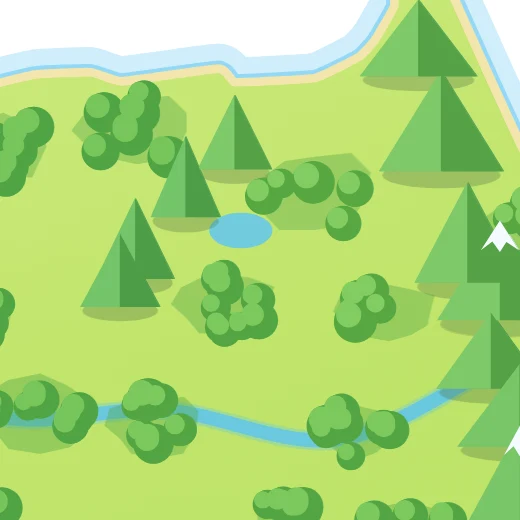
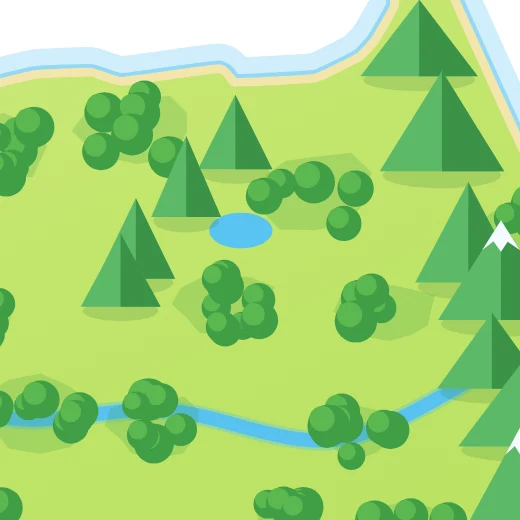
fix: 바다·철새에서는 지도 바탕을 고정한다
한때는 어느 카테고리를 보고 있든 눈과 단풍을 덧그렸다 — "1월의 바다
화면도 눈이어야 한다" 는 이유였다.

바다와 철새에서 지도는 배경이다. 그 배경이 날짜마다 초록에서 주황으로,
다시 흰색으로 넘어가면 정작 읽어야 할 것 — 어느 바다에 무엇이 있는가,
어느 지역에 새가 머무는가 — 이 계속 다른 바탕 위에 놓인다. 배경이 함께
움직이면 그 위의 변화가 안 읽힌다.

그래서 TerrainOverlay 와 FlowerOverlay 는 산에서만 얹는다. 산이 아닐 때는
buildTerrainNow · buildMountainNow 를 아예 부르지 않는다 — 이 값들은 오직
칠하기 위한 것이었고, 날짜를 끄는 동안 매 프레임 도는 계산이다.

같은 이유로 buildMountainNow 의 withFlowers 스위치를 걷었다. 바다에서도
지형색이 필요하던 시절에 꽃만 끄려고 둔 것이라 이제 켤 일이 없다.

측정 (1월 15일 ↔ 7월 20일, 지도 영역에서 sprite 자리를 뺀 배경):

  바다    비교 178,016px   차이 0
  철새    비교 192,303px   차이 0
  산      비교 271,124px   차이 91,602

지도 위치와 크기는 네 날짜 모두 563.375, 69, 421.234 × 644.25 로 같다.
산의 단풍 전선과 꽃은 그대로 동작한다.

증거 화면을 다시 찍었다 — 이전 것들은 바다·철새 화면에 눈이 덮여 있어
지금 동작과 어긋난다.

Claude-Session: https://claude.ai/code/session_01S9jiMgwHLqBXewgscJFXRX

diff --git a/src/components/map/MapScreen.tsx b/src/components/map/MapScreen.tsx
@@ -169,21 +169,31 @@ export function MapScreen() {
   /* ── 파생 데이터 ────────────────────────────────────────── */
 
   /*
-   * 지금 산이 무슨 계절인지는 날짜가 정한다.
+   * 지형의 계절색은 산에서만 칠한다.
    *
-   * 겨울에는 어느 카테고리를 보고 있든 산과 땅이 눈으로 덮이므로,
-   * 바다를 보는 중에도 지형은 계산한다 — 1월의 지도가 초여름처럼 초록이면
-   * 시간을 움직이는 지도가 아니다.
+   * 예전에는 어느 카테고리를 보고 있든 눈과 단풍을 덧그렸다. 그런데
+   * 바다와 철새에서 지도는 배경이다. 그 배경이 날짜마다 초록에서 주황으로,
+   * 다시 흰색으로 넘어가면 정작 읽어야 할 것 — 어느 바다에 무엇이 있는가,
+   * 어느 지역에 새가 머무는가 — 이 계속 다른 바탕 위에 놓인다.
+   * 배경이 움직이면 그 위의 변화가 안 읽힌다.
+   *
+   * 그래서 바다·철새에서는 base map 이 그린 색 그대로 고정한다.
+   * 계절이 지도를 칠하는 것은 산의 일이다 — 거기서는 그것이 주인공이다.
+   *
+   * 산이 아닐 때는 계산 자체를 돌리지 않는다. 이 값들은 오직 칠하기 위한
+   * 것이었고, 날짜를 끄는 동안 매 프레임 도는 계산이다.
    */
-  const terrain = useMemo(() => buildTerrainNow(date), [date]);
+  const isMountain = layer === 'mountain';
+  const terrain = useMemo(() => (isMountain ? buildTerrainNow(date) : null), [isMountain, date]);
   const mountain = useMemo(
-    () => buildMountainNow(date, terrain, layer === 'mountain'),
-    [date, terrain, layer],
+    () => (terrain ? buildMountainNow(date, terrain) : null),
+    [date, terrain],
   );
-  const phase = mountain.phase;
+  /* 산이 아니면 계절 국면은 쓰이지 않는다. 자리를 채우는 값일 뿐이다. */
+  const phase: MountainPhase = mountain?.phase ?? 'green';
   const mountainPhase = phase;
-  const isFlower = layer === 'mountain' && phase === 'flower';
-  const isFoliage = layer === 'mountain' && phase === 'foliage';
+  const isFlower = isMountain && phase === 'flower';
+  const isFoliage = isMountain && phase === 'foliage';
 
   /*
    * 철새는 지도 조립을 따로 돈다.
@@ -395,7 +405,7 @@ export function MapScreen() {
 
   /* ── 지역별 목록 · 추천 — 계절이 무엇을 보여줄지 정한다 ── */
   const regionRows: RegionRow[] = useMemo(() => {
-    if (isFlower) {
+    if (isFlower && mountain) {
       return mountain.flowerRegions.map((region) => {
         const top = region.blooms[0];
         return {
@@ -413,7 +423,7 @@ export function MapScreen() {
         };
       });
     }
-    if (isFoliage) {
+    if (isFoliage && mountain) {
       return mountain.foliageRegions.map((region) => {
         const color = mountainColorAt(region.wave);
         return {
@@ -437,7 +447,7 @@ export function MapScreen() {
 
   const picks: PickView[] = useMemo(() => {
     if (!picksOpen) return [];
-    if (isFlower) {
+    if (isFlower && mountain) {
       return getFlowerPicks(mountain.flowerSpots).map((spot) => ({
         key: `flower:${spot.location.id}`,
         location: spot.location,
@@ -477,7 +487,7 @@ export function MapScreen() {
   const header = (stacked: boolean) => (
     <MarineMapHeader
       layer={layer}
-      headline={bird ? bird.headline : mountain.headline}
+      headline={bird?.headline ?? mountain?.headline ?? ''}
       phase={phase}
       mode={layout.mode}
       counts={counts}
@@ -552,24 +562,28 @@ export function MapScreen() {
             onSelectSprite={onSelectSprite}
             className="h-[min(100cqh,var(--map-max-h))] w-auto"
             overlay={
-              <>
-                {/* 계절이 지형을 칠한다 — 카테고리와 무관하다 (1월 바다 화면도 눈이다) */}
-                <TerrainOverlay
-                  regions={terrain.foliageRegions}
-                  winter={terrain.winter}
-                  freshAt={(offsetDays) => freshAmount(date, offsetDays)}
-                  detailed={layer === 'mountain'}
-                  /* 끄는 동안에는 전환을 걸지 않는다 — 모바일에서 화면이 죽는다 */
-                  fast={isPlaying || isScrubbing}
-                />
-                {/* 꽃은 지형 위에 무리로 얹힌다 */}
-                {phase === 'flower' && (
-                  <FlowerOverlay
-                    regions={mountain.flowerRegions}
+              /*
+               * 산에서만 지형을 덧칠한다. 바다·철새에서는 아무것도 얹지 않으므로
+               * base map 이 그린 색이 그대로 남고, 날짜를 아무리 옮겨도 바탕은 같다.
+               */
+              terrain && mountain ? (
+                <>
+                  <TerrainOverlay
+                    regions={terrain.foliageRegions}
+                    winter={terrain.winter}
+                    freshAt={(offsetDays) => freshAmount(date, offsetDays)}
+                    /* 끄는 동안에는 전환을 걸지 않는다 — 모바일에서 화면이 죽는다 */
                     fast={isPlaying || isScrubbing}
                   />
-                )}
-              </>
+                  {/* 꽃은 지형 위에 무리로 얹힌다 */}
+                  {phase === 'flower' && (
+                    <FlowerOverlay
+                      regions={mountain.flowerRegions}
+                      fast={isPlaying || isScrubbing}
+                    />
+                  )}
+                </>
+              ) : null
             }
           />
 
@@ -637,9 +651,8 @@ export function MapScreen() {
         caption={
           bird
             ? bird.caption
-            : layer === 'mountain'
-              ? mountain.caption
-              : `지도에 ${visible}${layout.mode === 'zone' ? '곳' : '종'} 표시 중`
+            : (mountain?.caption ??
+              `지도에 ${visible}${layout.mode === 'zone' ? '곳' : '종'} 표시 중`)
         }
       />
 
@@ -672,6 +685,7 @@ export function MapScreen() {
           }
           picks={picks}
           onShowOnMap={(pick) => {
+            if (!mountain) return;
             const spots = isFlower ? mountain.flowerSpots : mountain.foliageSpots;
             const hit = spots.find((sp) => sp.location.id === pick.location.id);
             if (hit) showMountainOnMap(`${isFlower ? 'flower' : 'foliage'}:${hit.location.slug}`, hit.position);
@@ -745,9 +759,10 @@ export function MapScreen() {
 function pickMountainSpot(
   layer: string,
   selectedId: string | null,
-  mountain: MountainNow,
+  /* 산이 아니면 애초에 계산하지 않는다 — 그때는 고를 명소도 없다 */
+  mountain: MountainNow | null,
 ): { view: MountainSpotView; position: MapPosition } | null {
-  if (layer !== 'mountain' || !selectedId) return null;
+  if (layer !== 'mountain' || !selectedId || !mountain) return null;
 
   for (const spot of mountain.flowerSpots) {
     if (`flower:${spot.location.slug}` === selectedId) {

diff --git a/src/services/mountain-service.ts b/src/services/mountain-service.ts
@@ -72,9 +72,9 @@ const PHASE_CAPTION: Record<'green' | 'winter', string> = {
 /**
  * 지형을 칠하는 데 필요한 것만.
  *
- * 겨울 눈과 신록은 어느 카테고리를 보고 있든 지도에 나타나야 하므로
- * 바다 화면에서도 계산한다. 다만 꽃까지 세지는 않는다 —
- * 날짜를 끄는 동안 매 프레임 도는 계산이라 쓰지 않을 것을 세면 그만큼 무겁다.
+ * 이 값들은 산 화면에서만 쓴다. 바다와 철새에서는 지도를 덧칠하지 않으므로
+ * (MapScreen 의 '지형의 계절색은 산에서만 칠한다' 참고) 아예 부르지 않는다 —
+ * 날짜를 끄는 동안 매 프레임 도는 계산이라, 칠하지도 않을 것을 세면 그만큼 무겁다.
  */
 export interface TerrainNow {
   winter: number;
@@ -96,21 +96,17 @@ export function buildTerrainNow(date: DateKey): TerrainNow {
 }
 
 /**
- * withFlowers 는 산 화면에서만 켠다.
+ * 지금 산.
  *
- * 바다를 보는 중에도 지형(눈 · 신록 · 단풍색)은 그려야 하지만 꽃은 쓰이지
- * 않는다. 날짜를 끄는 동안 매 프레임 도는 계산이라, 쓰지 않을 것을 세면
- * 그만큼 슬라이더가 무거워진다.
+ * 산 화면에서만 부른다. 예전에는 바다를 보는 중에도 지형색 때문에 이 계산이
+ * 필요해서 꽃만 끄는 스위치(withFlowers)를 두었는데, 지금은 바다·철새가
+ * 지도를 덧칠하지 않으므로 그 스위치가 있을 자리가 없다.
  */
-export function buildMountainNow(
-  date: DateKey,
-  terrain: TerrainNow,
-  withFlowers = true,
-): MountainNow {
+export function buildMountainNow(date: DateKey, terrain: TerrainNow): MountainNow {
   const { winter, fresh, foliageSpots, foliageRegions, foliageCounts } = terrain;
 
-  const flowerSpots = withFlowers ? buildFlowerSpots(date) : [];
-  const flowerRegions = withFlowers ? groupFlowerRegions(flowerSpots) : [];
+  const flowerSpots = buildFlowerSpots(date);
+  const flowerRegions = groupFlowerRegions(flowerSpots);
   const flowerCounts = countFlowers(flowerSpots);
 
   /*

diff --git a/docs/ARCHITECTURE.md b/docs/ARCHITECTURE.md
@@ -38,6 +38,33 @@
 그래서 같은 명소에 걸린 여러 수종(단풍나무 · 은행 · 억새)은
 `foliage-service` 가 하나로 묶어 가장 앞선 상태를 그 산의 상태로 쓴다.
 
+### 지형의 계절색은 산에서만 칠한다
+
+한때는 어느 카테고리를 보고 있든 눈과 단풍을 덧그렸다 — "1월의 바다 화면도
+눈이어야 한다" 는 이유였다. 지금은 그러지 않는다.
+
+바다와 철새에서 지도는 **배경**이다. 그 배경이 날짜마다 초록에서 주황으로,
+다시 흰색으로 넘어가면 정작 읽어야 할 것 — 어느 바다에 무엇이 있는가,
+어느 지역에 새가 머무는가 — 이 계속 다른 바탕 위에 놓인다.
+배경이 함께 움직이면 그 위의 변화가 안 읽힌다.
+
+```
+바다 · 철새   base map 이 그린 색 그대로. 날짜를 옮겨도 바탕은 같다.
+산            계절이 지형을 칠한다 — 여기서는 그것이 주인공이다.
+```
+
+그래서 `TerrainOverlay` 와 `FlowerOverlay` 는 산에서만 얹고, 산이 아닐 때는
+`buildTerrainNow` · `buildMountainNow` 를 아예 부르지 않는다. 이 값들은 오직
+칠하기 위한 것이었고, 날짜를 끄는 동안 매 프레임 도는 계산이다.
+
+측정(1월 15일 ↔ 7월 20일, 지도 영역에서 sprite 자리를 뺀 배경):
+
+```
+바다    비교 178,016px   차이 0
+철새    비교 192,303px   차이 0
+산      비교 271,124px   차이 91,602   ← 계절이 칠한다
+```
+
 ### 산이 물드는 방식
 
 지도를 계절마다 다른 이미지로 갈아 끼우지 않는다.

diff --git a/docs/prototype-evidence/README.md b/docs/prototype-evidence/README.md
@@ -18,7 +18,21 @@
 | `10-selected.webp` | 하나를 골랐을 때. 기존 Bottom Sheet 를 그대로 쓴다 |
 | `11-production-guard.webp` | `NEXT_PUBLIC_BIRD_PRODUCTION=1` — mock 이 전부 차단되어 0마리 |
 | `8-marine-regression.webp` | 지금 바다 — 그대로 동작한다 |
-| `9-mountain-regression.webp` | 지금 산(단풍) — 그대로 동작한다 |
+| `9-mountain-regression.webp` | 지금 산(단풍) — 계절이 지형을 칠하는 것은 그대로다 |
+
+## 지도 바탕은 고정이다
+
+바다와 철새에서는 지형에 계절색을 얹지 않는다. 위 화면들이 1월인데도
+지도가 눈이 아니라 base map 그대로인 것이 그 때문이다 — 배경이 날짜마다
+바뀌면 그 위에 놓인 변화가 안 읽힌다.
+
+1월 15일과 7월 20일을 견주면(지도 영역에서 sprite 자리를 뺀 배경):
+
+```
+바다    비교 178,016px   차이 0
+철새    비교 192,303px   차이 0
+산      비교 271,124px   차이 91,602   ← 산은 계속 계절을 탄다
+```
 
 ## anchor 고정 증거
 
